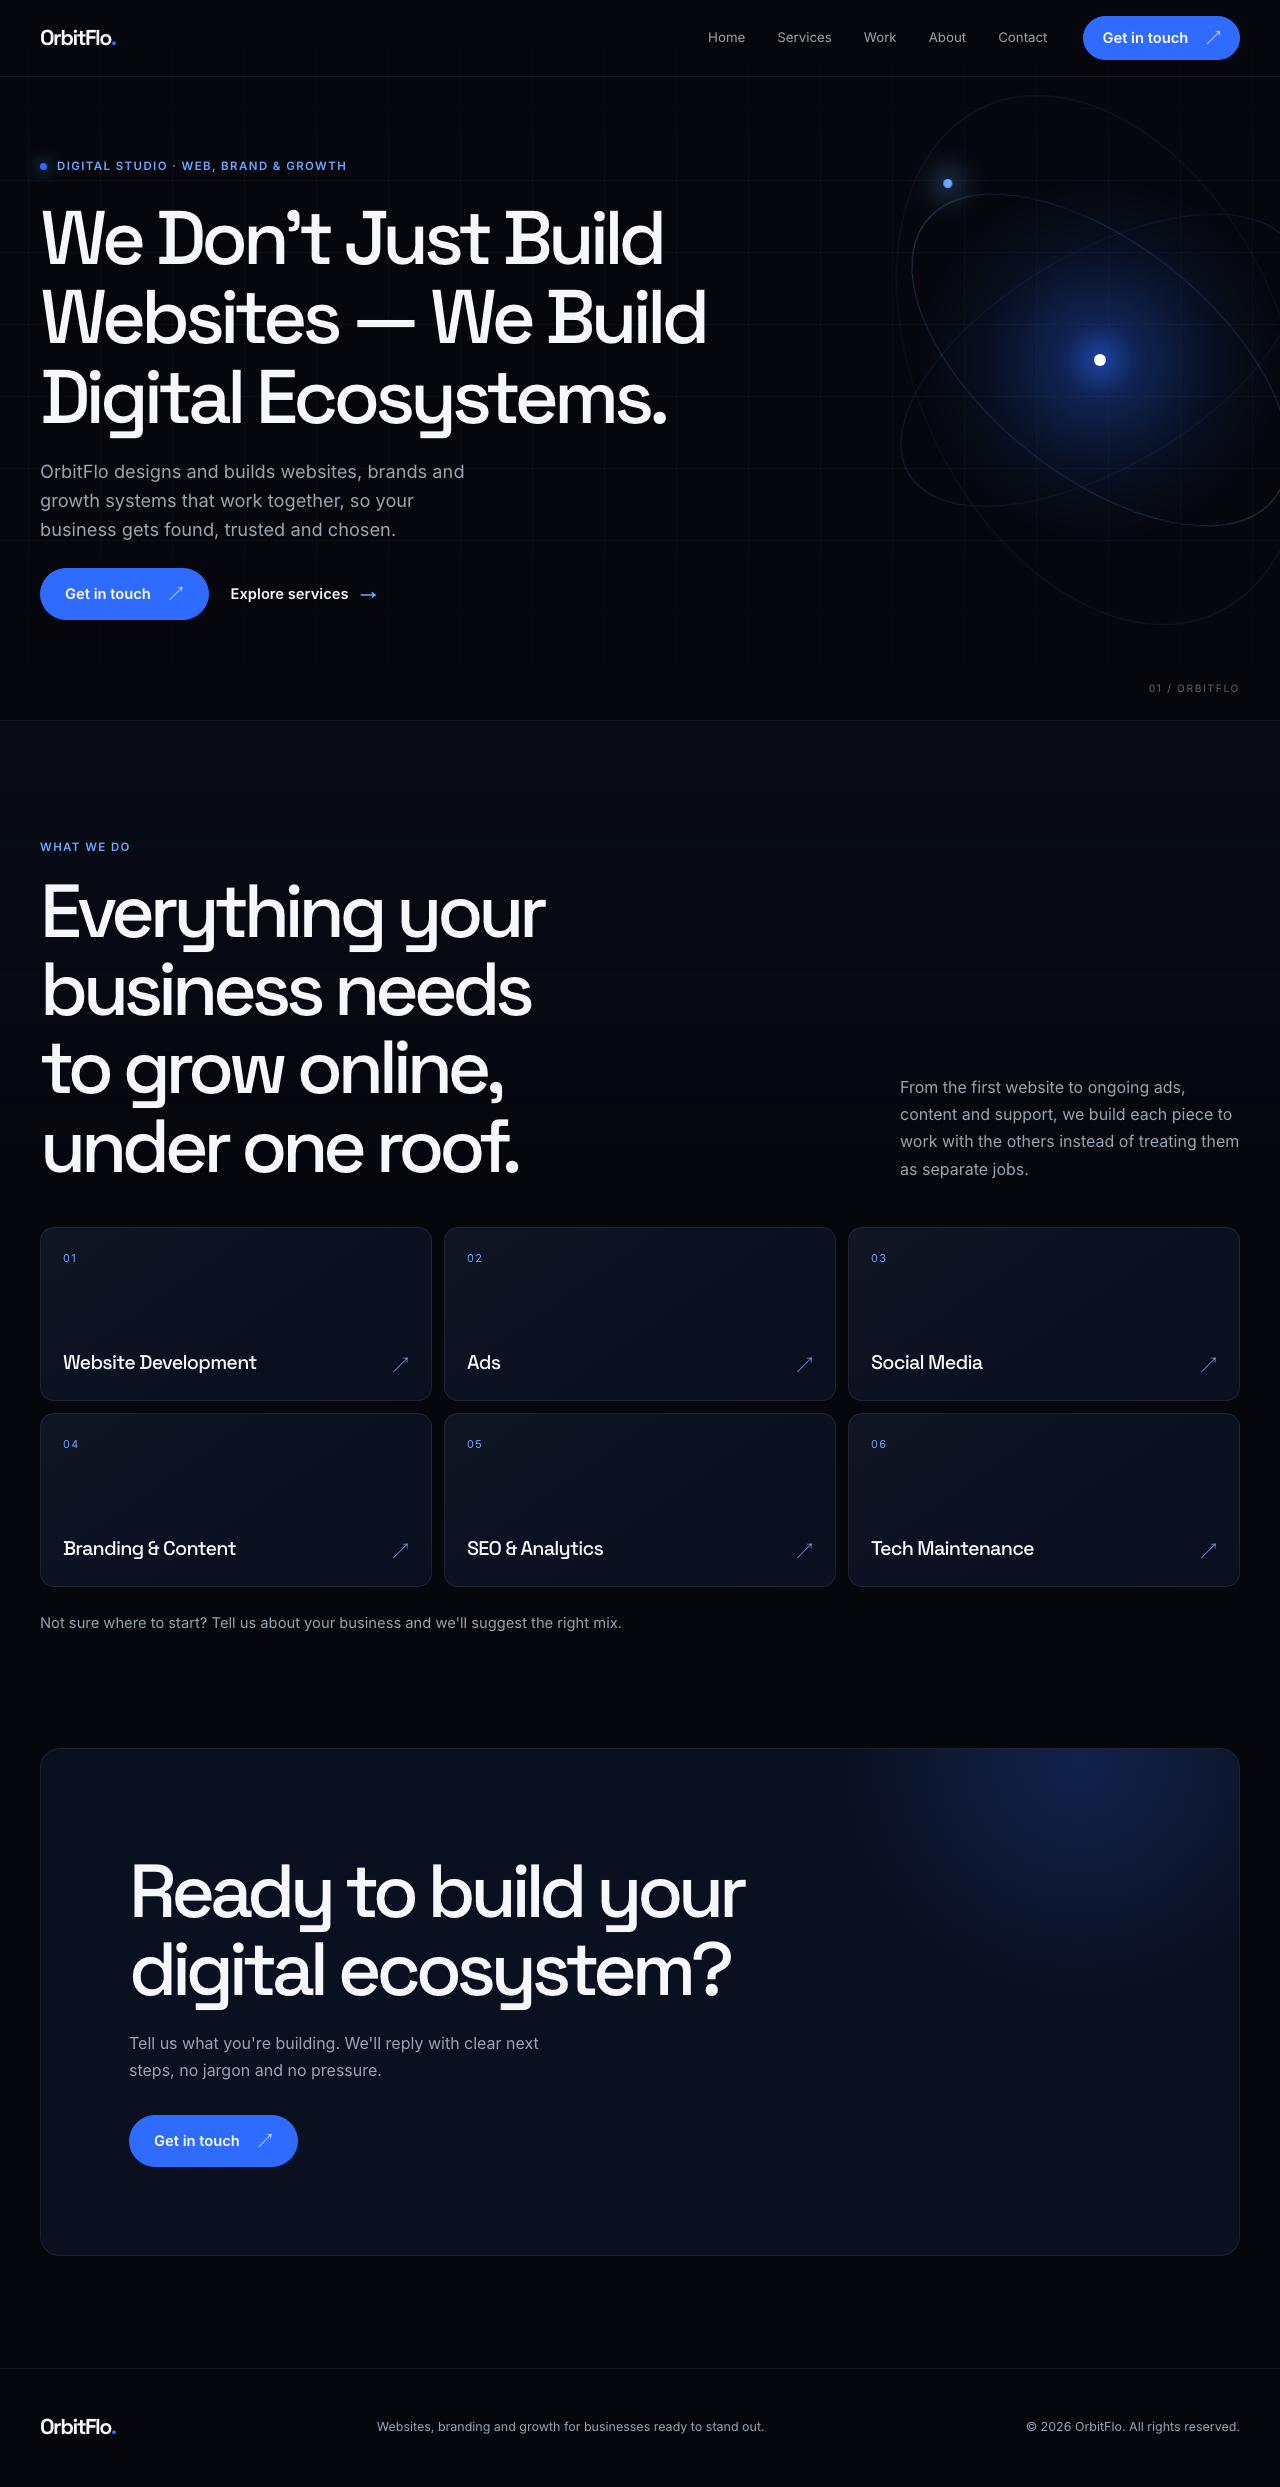
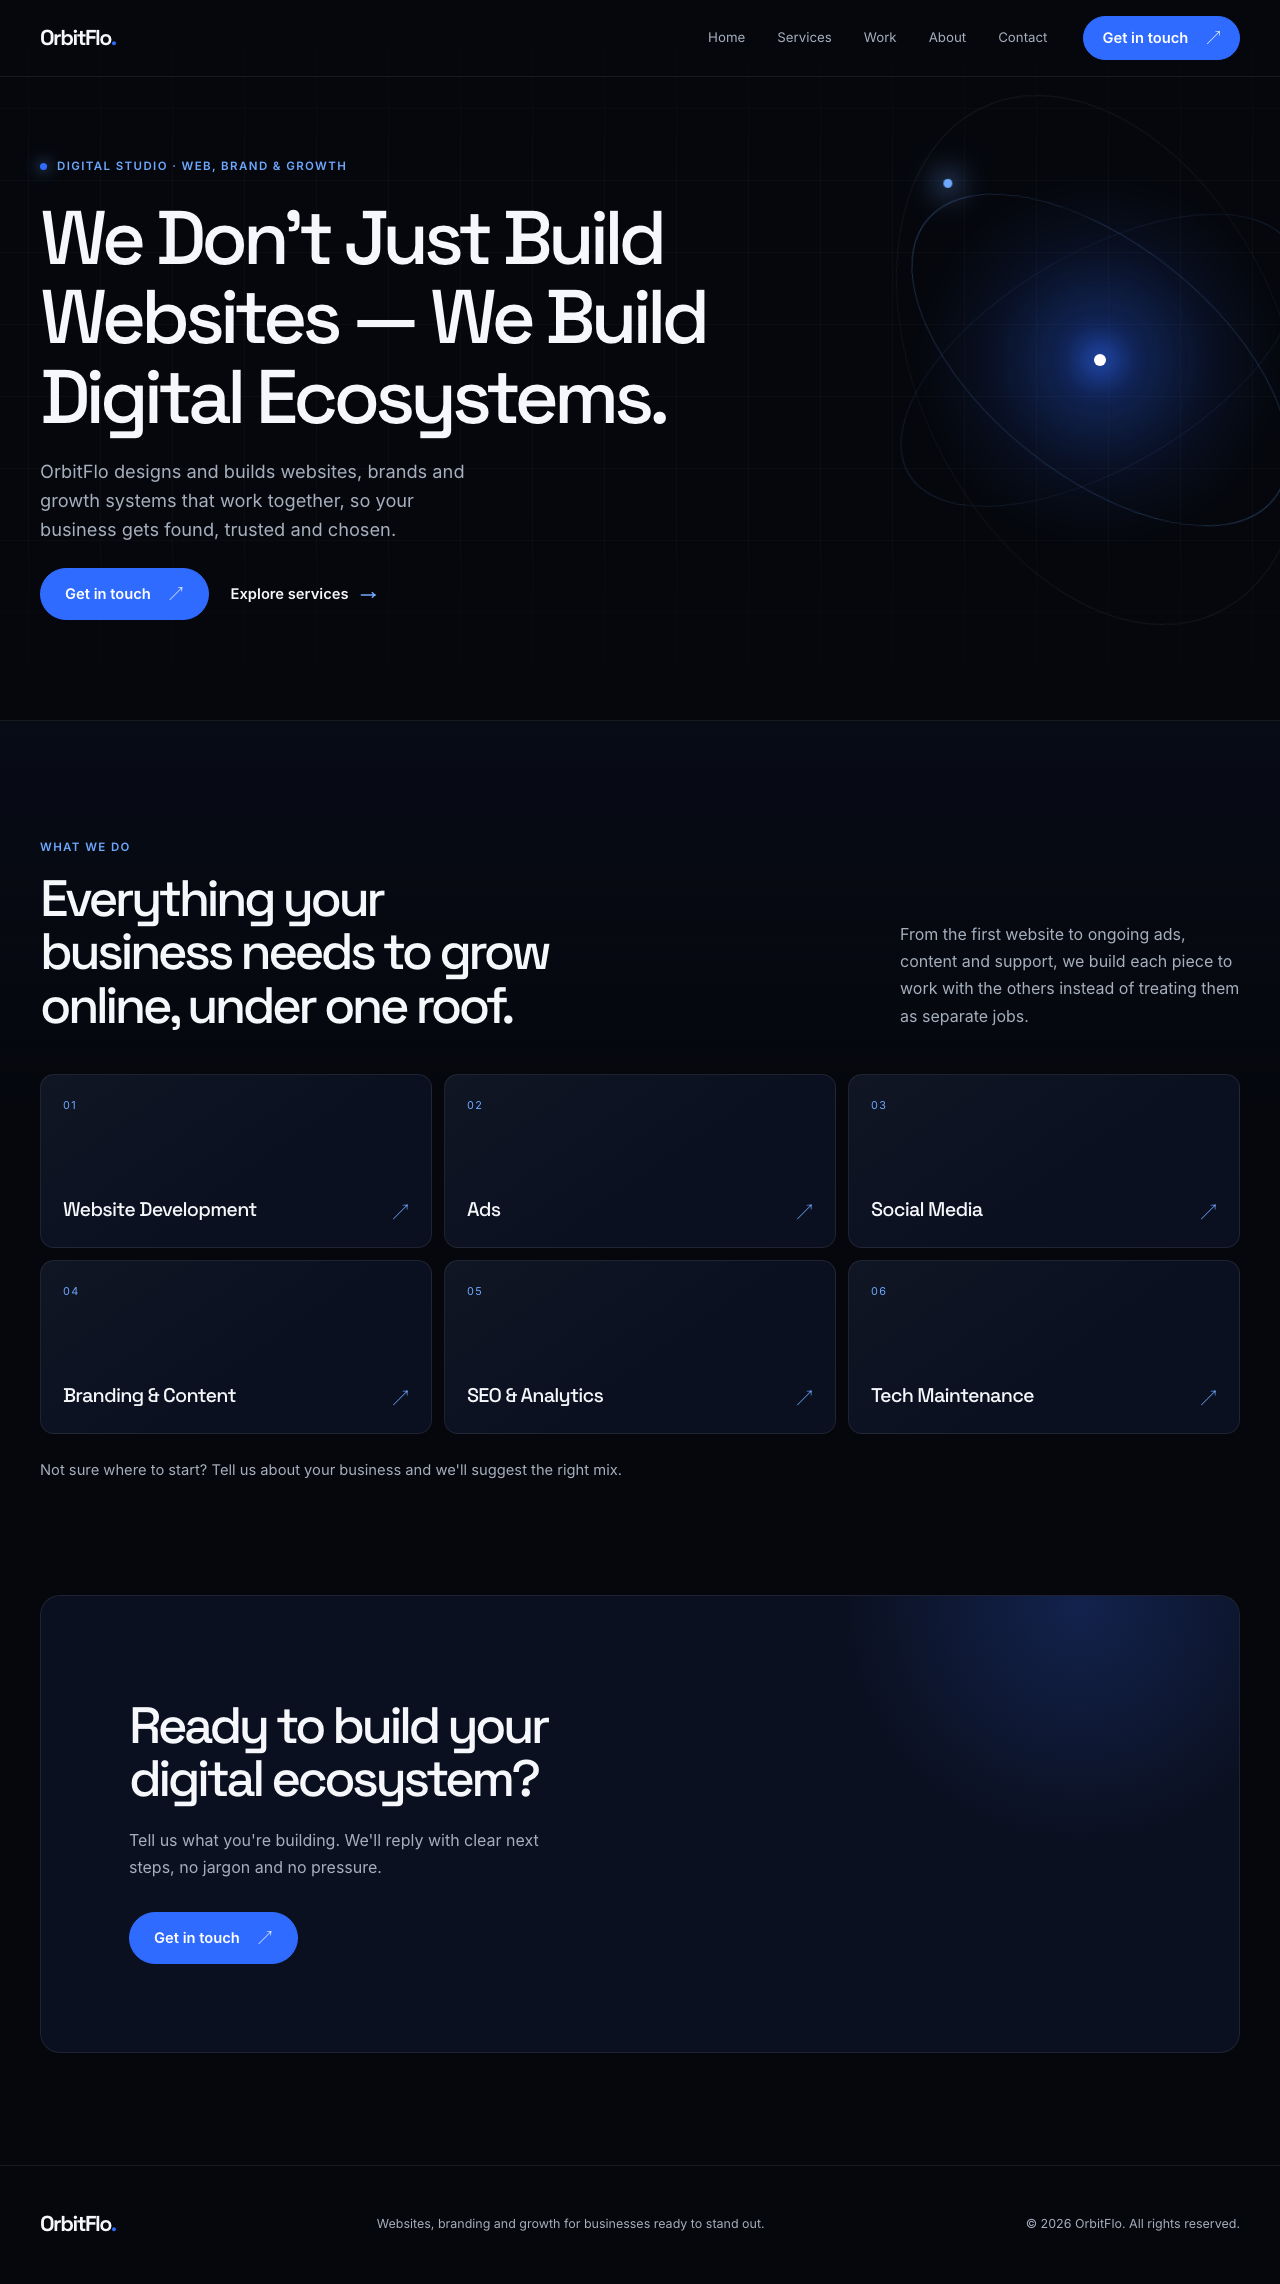
Polish Home mobile hero and section headings

diff --git a/src/app/globals.css b/src/app/globals.css
@@ -6,7 +6,7 @@
   --surface: #0b1020;
   --border: rgba(255, 255, 255, 0.08);
   --text: #f5f7fa;
-  --muted: #9aa4b2;
+  --muted: #a6afbd;
   --primary: #2f6bff;
   --glow: #6ea8ff;
 }
@@ -308,16 +308,6 @@ h3 {
   transform: translateX(4px);
 }
 
-.hero-index {
-  position: absolute;
-  right: max(20px, calc((100vw - 1200px) / 2));
-  bottom: 24px;
-  z-index: 1;
-  color: rgba(245, 247, 250, 0.38);
-  font-size: 0.64rem;
-  letter-spacing: 0.16em;
-}
-
 .orbit-visual {
   position: absolute;
   top: 50%;
@@ -417,7 +407,7 @@ h3 {
 .closing-panel h2 {
   max-width: 620px;
   margin: 15px 0 0;
-  font-size: clamp(2.5rem, 6vw, 4.7rem);
+  font-size: clamp(2rem, 4vw, 3.25rem);
   font-weight: 500;
   letter-spacing: -0.07em;
   line-height: 1.04;
@@ -624,13 +614,14 @@ h3 {
 
 @media (max-width: 719px) {
   .hero-section {
+    display: block;
     min-height: 100svh;
-    padding: clamp(100px, 13vh, 116px) 0 44px;
+    padding: 88px 0 24px;
   }
 
   .hero-content {
     min-height: 0;
-    align-items: center;
+    align-items: flex-start;
   }
 
   .hero-copy {
@@ -643,10 +634,12 @@ h3 {
 
   .orbit-visual {
     top: auto;
-    right: -35%;
-    bottom: -24%;
-    width: min(100vw, 500px);
-    opacity: 0.75;
+    right: auto;
+    bottom: auto;
+    position: relative;
+    width: min(68vw, 250px);
+    margin: 18px auto 0;
+    opacity: 0.58;
     transform: none;
   }
 

diff --git a/src/app/page.tsx b/src/app/page.tsx
@@ -41,7 +41,6 @@ export default function Home() {
           </div>
         </div>
         <OrbitVisual />
-        <span className="hero-index" aria-hidden="true">01 / ORBITFLO</span>
       </section>
 
       <section className="services-section section-pad" id="services">
